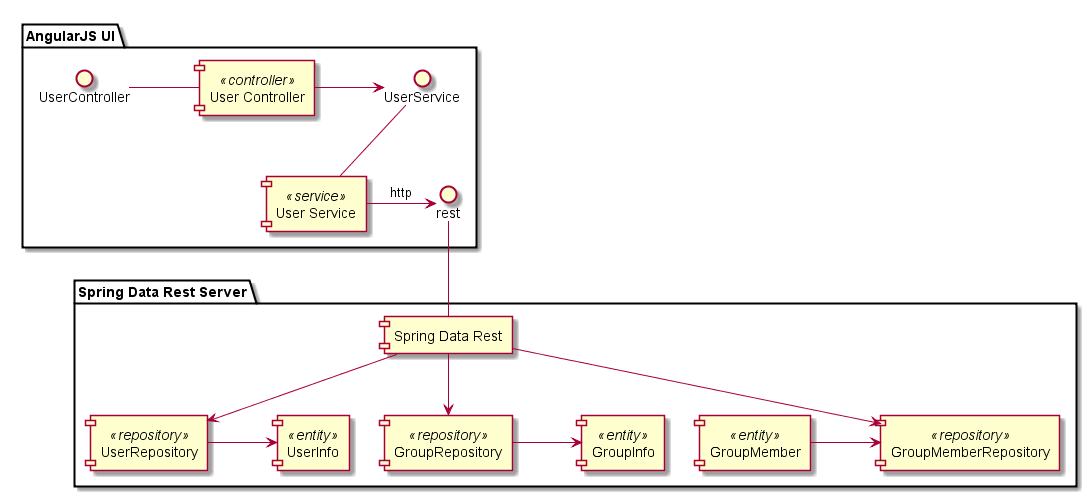
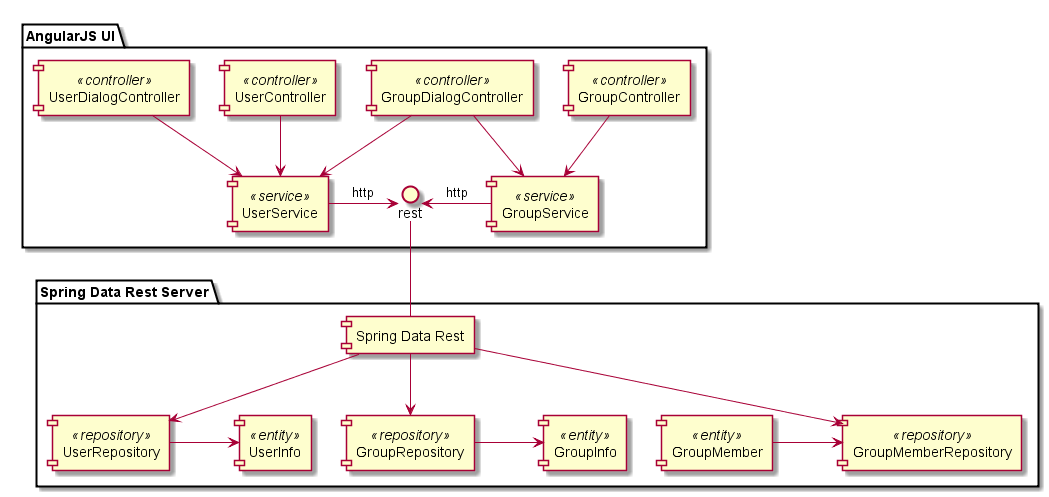
fix date formatting. updated diagrams

diff --git a/src/main/resources/static/index.html b/src/main/resources/static/index.html
@@ -5,7 +5,7 @@
 	<title>String Data Rest Angular Demo</title>
 	<meta http-equiv="X-UA-Compatible" content="IE=edge"/>
 	<meta name="viewport" content="initial-scale=1, maximum-scale=1, user-scalable=no"/>
-	<link rel="stylesheet" href="/webjars/angular-material/1.0.6/angular-material.css"/>
+	<link rel="stylesheet" href="/webjars/angular-material/1.0.7/angular-material.css"/>
 	<link rel="stylesheet" href="/webjars/angular-material-data-table/0.10.3/dist/md-data-table.css"/>
 	<link rel="stylesheet" href="/css/app.css"></link>
 </head>
@@ -43,7 +43,7 @@
 <script type="text/javascript" src="/webjars/angular/1.5.3/angular.js"></script>
 <script type="text/javascript" src="/webjars/angular-animate/1.5.3/angular-animate.js"></script>
 <script type="text/javascript" src="/webjars/angular-aria/1.5.3/angular-aria.js"></script>
-<script type="text/javascript" src="/webjars/angular-material/1.0.6/angular-material.js"></script>
+<script type="text/javascript" src="/webjars/angular-material/1.0.7/angular-material.js"></script>
 <script type="text/javascript" src="/webjars/angular-gravatar/0.4.1/build/angular-gravatar.js"></script>
 <script type="text/javascript" src="/webjars/angular-material-data-table/0.10.3/dist/md-data-table.js"></script>
 <script type="text/javascript" src="/js/DataApp.js"></script>
@@ -103,6 +103,10 @@
 	app.config(function ($mdDateLocaleProvider, $mdThemingProvider, $mdIconProvider) {
 		$mdDateLocaleProvider.formatDate = function (date) {
 			return moment(date).format('YYYY-MM-DD');
+		};
+		$mdDateLocaleProvider.parseDate = function(dateString) {
+			var m = moment(dateString, ['YYYY-M-D','YYYY/M/D']);
+			return m.isValid() ? m.toDate() : new Date(NaN);
 		};
 		$mdThemingProvider.theme("default")
 				.primaryPalette("blue")

diff --git a/src/main/resources/static/js/UserController.js b/src/main/resources/static/js/UserController.js
@@ -5,7 +5,7 @@
 
         $scope.newUser = newUser;
         $scope.user = user;
-        $scope.dateOfBirth = !newUser && user.dateOfBirth ? moment(user.dateOfBirth).toDate() : null;
+        $scope.dateOfBirth = !newUser && user.dateOfBirth ? moment(user.dateOfBirth, 'YYYY-MM-DD').toDate() : null;
         $scope.dialogTitle = $scope.newUser ? 'Create User' : 'Edit User';
         $log.info('scope values init:' + $scope.newUuser + ':' + $scope.dialogTitle + ':' + $scope.dateOfBirth + ':' + $scope.user);
         $scope.cancel = function () {
